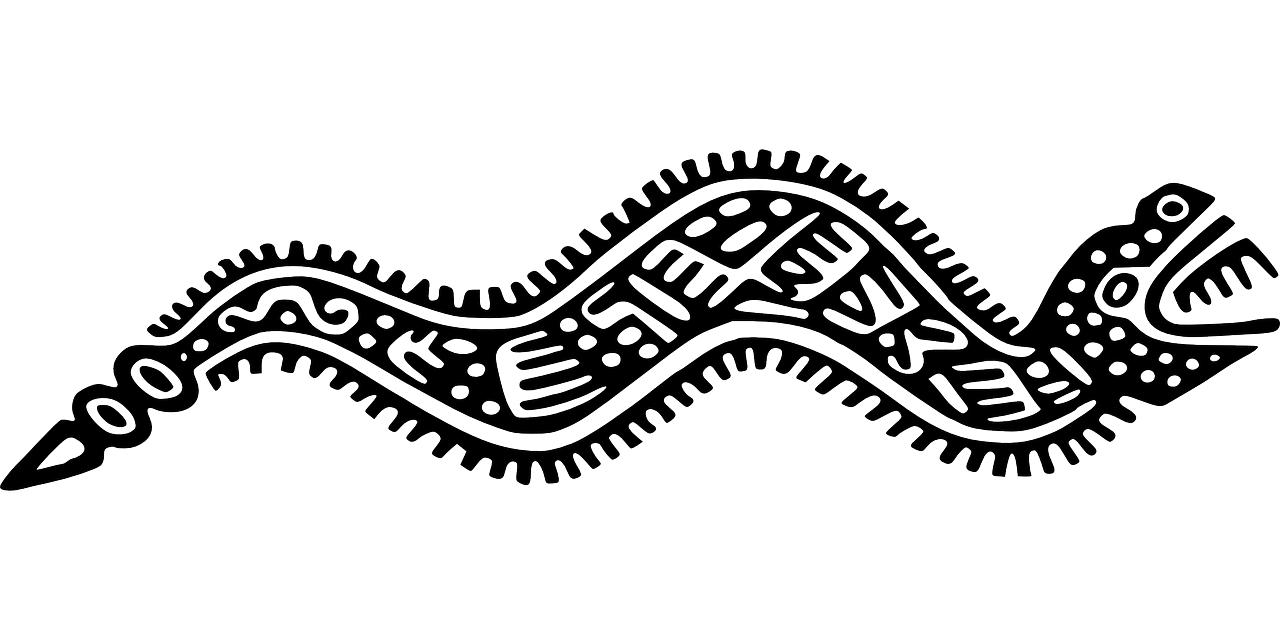
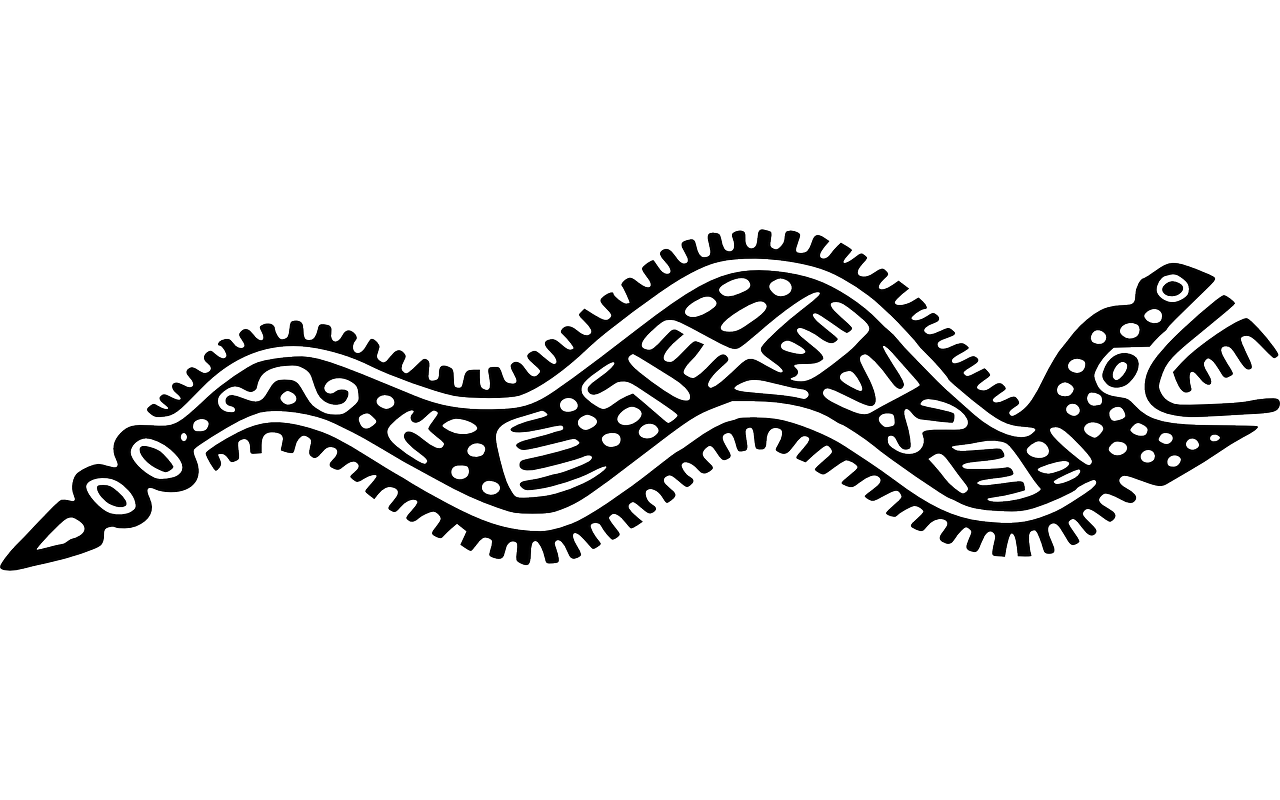
Did some adjustments to snake image.

Changed region(s): [[0.0, 0.2188, 1.0, 0.7812]]

diff --git a/css_b2_sandrawidmark/main.css b/css_b2_sandrawidmark/main.css
@@ -17,7 +17,7 @@ html {
 #css-zen-garden {
 
     background-image: url(img/fisk.png),url(img/fagel.png),url(img/orm.png), url(img/bakgrund.jpg);
-    background-position: 10px 770px,770px 1240px,-50px 245px, center ;
+    background-position: 10px 770px,770px 1240px,-50px 220px, center;
     background-repeat: no-repeat, no-repeat, no-repeat, no-repeat;
     background-size: 240px, 220px,350px, 2000px; 
     
